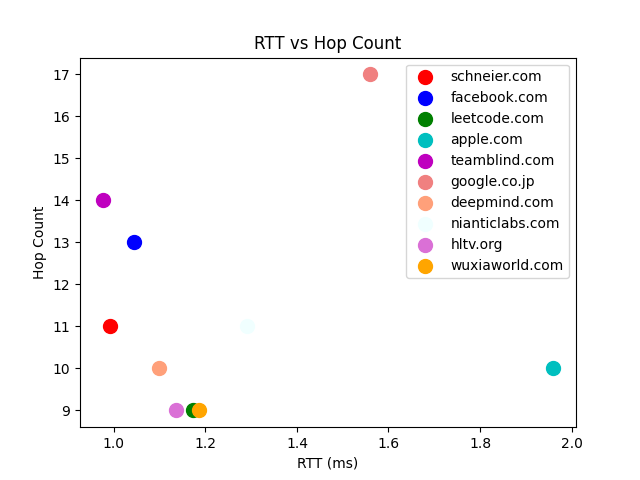
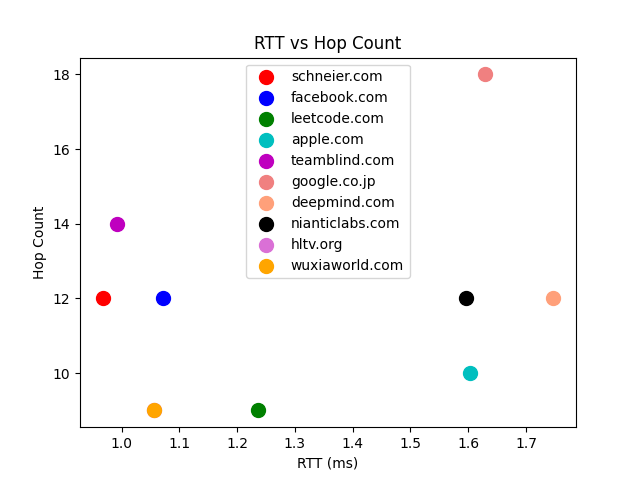
finalize colors

diff --git a/distMeasurement.py b/distMeasurement.py
@@ -101,7 +101,7 @@ def run():
 
     #Plot data and save graph
     import matplotlib.pyplot as plt
-    colors = ['r', 'b', 'g', 'c', 'm', 'lightcoral', 'lightsalmon', 'azure', 'orchid' , 'orange']
+    colors = ['r', 'b', 'g', 'c', 'm', 'lightcoral', 'lightsalmon', 'black', 'orchid' , 'orange']
     assert hops_info.keys() == RTT_info.keys()
 
     #plot and anannotate each point
